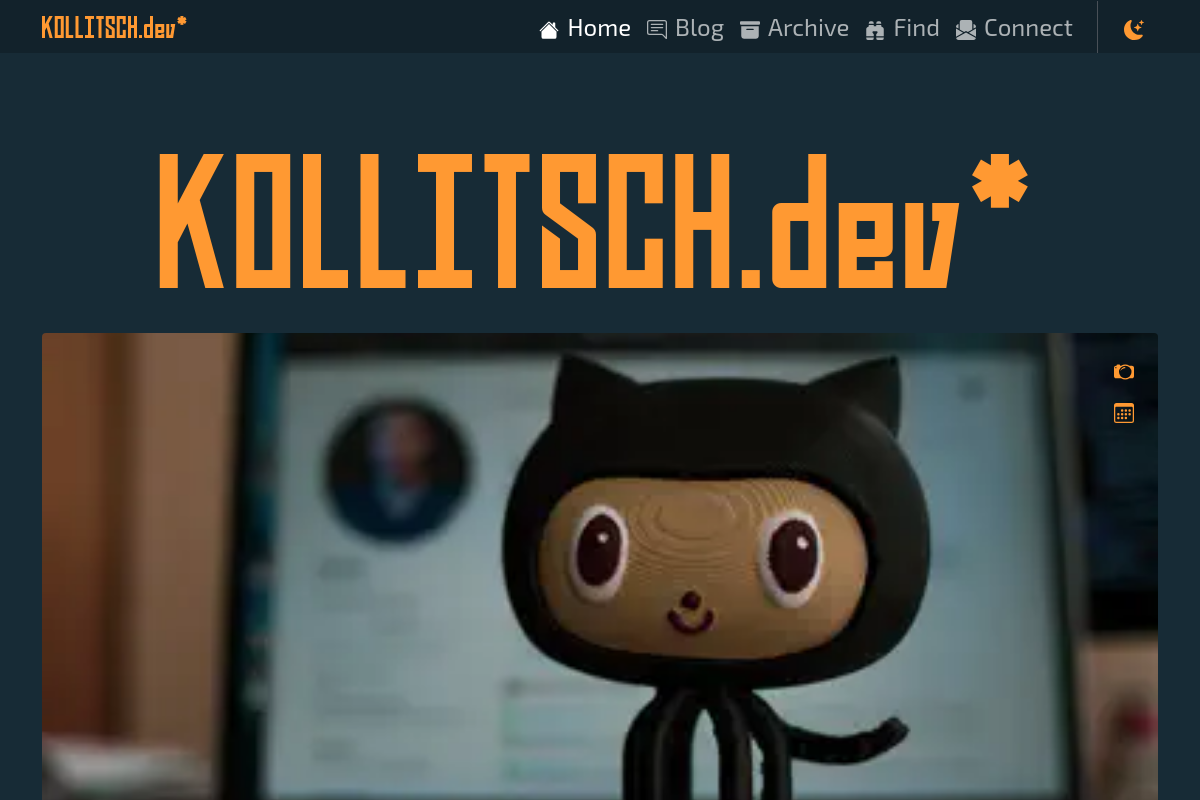
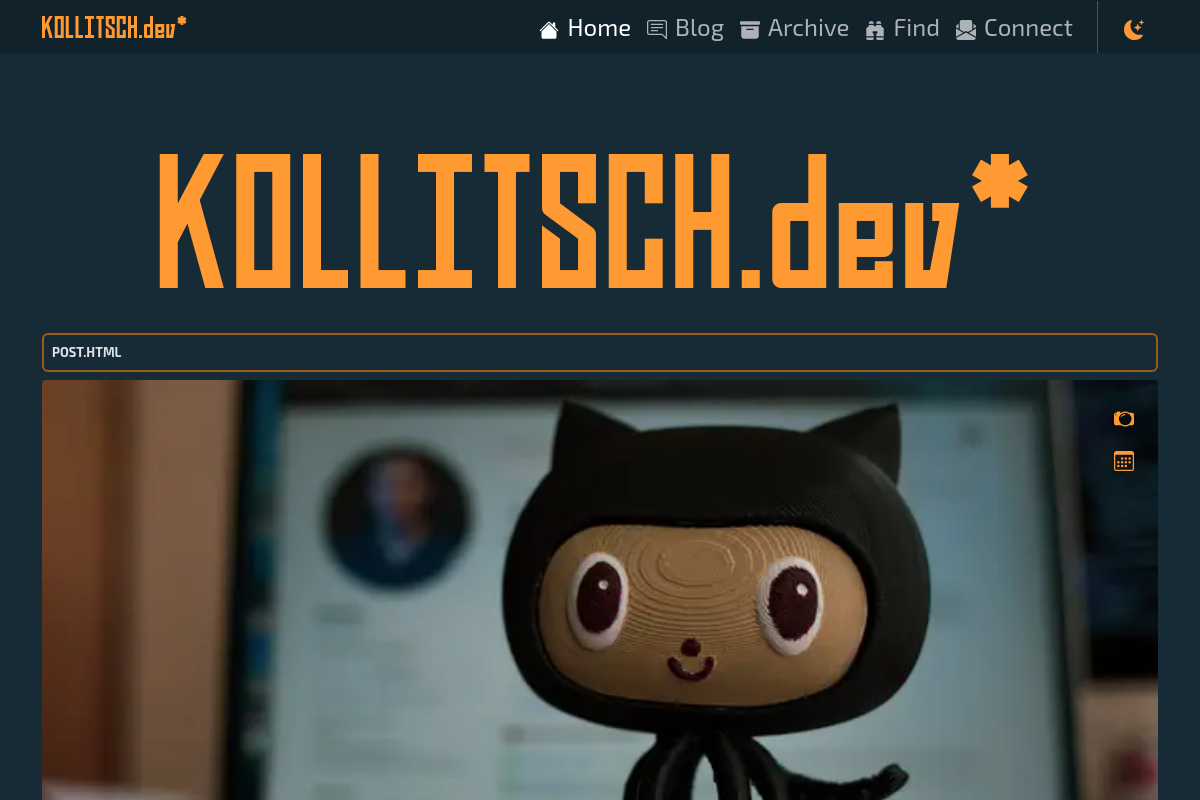
chore(release): v2024.1.30

diff --git a/CHANGELOG.md b/CHANGELOG.md
@@ -2,6 +2,13 @@
 
 All notable changes to this project will be documented in this file. See [commit-and-tag-version](https://github.com/absolute-version/commit-and-tag-version) for commit guidelines.
 
+## [2024.1.30](https://github.com/davidsneighbour/kollitsch.dev/compare/v2024.1.29...v2024.1.30) (2024-04-22)
+
+
+### Bug Fixes
+
+* clean up post display ([5624f9d](https://github.com/davidsneighbour/kollitsch.dev/commit/5624f9d9aa996a35e19468085027992b253d23b5))
+
 ## [2024.1.29](https://github.com/davidsneighbour/kollitsch.dev/compare/v2024.1.28...v2024.1.29) (2024-04-22)
 
 
